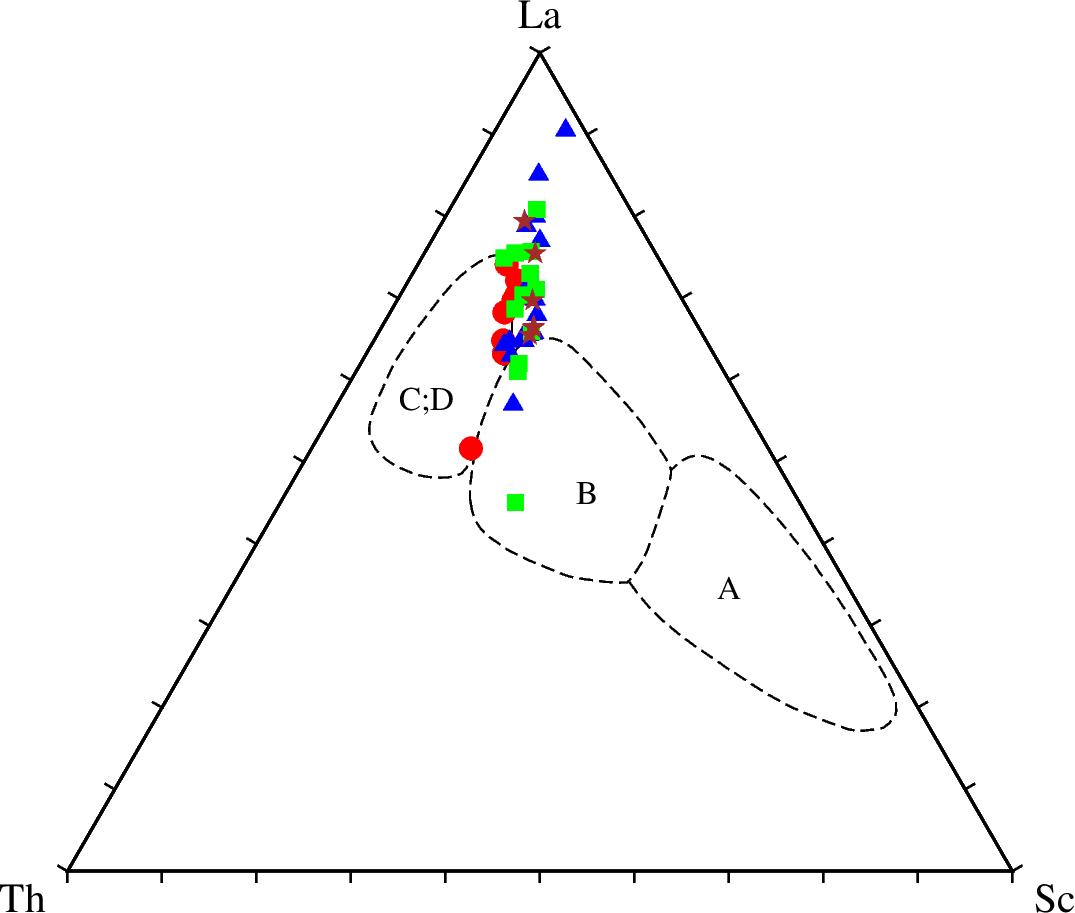
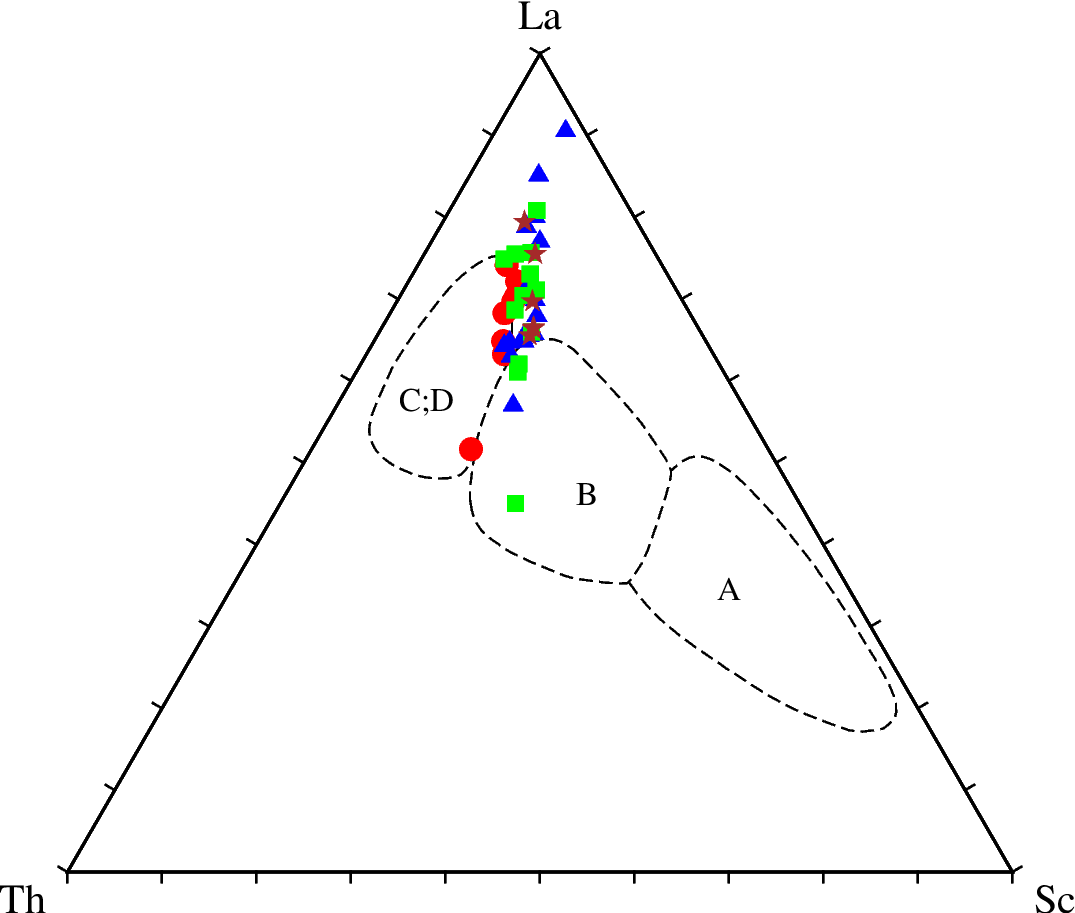
fixes

diff --git a/content/example/ex022/index.md b/content/example/ex022/index.md
@@ -1,6 +1,6 @@
 ---
 title: 地球化学三角图解的绘制
-date: 2018-01-22
+date: 2019-01-22
 authors:
     - 李黎明
 images:
@@ -8,7 +8,7 @@ images:
     - ternary2.png
     - Engauge.jpg
 commands:
-    - ternary
+    - psternary
 ---
 
 {{% notice info %}}
@@ -17,26 +17,24 @@ commands:
 {{% /notice %}}
 
 三角图解有很多种，这里仅讨论一下地球化学上常用的地球化学图解用 GMT 的实现方法。
-该三角图解引自Mukul R. Bhatia & Keith A.W. Crook，1986，Contrib Mineral Petrol  92:181-193。原图如下：
+该三角图解引自Mukul R. Bhatia & Keith A.W. Crook, 1986, Contrib Mineral Petrol。原图如下：
 
-{{< figure src="Bhatia-Crool1986.png" title="Th,Sc,La三角图解" width="1000px">}}
-
+{{< figure src="Bhatia-Crool1988.png" title="Th,Sc,La三角图解" width="400px" >}}
 
 - 三个端元值分别为 Th、Sc 和 La含量经归一化后的值，即将三元素含量换算成各自占三者的百分含量。
-
-  以元素 Th 为例，Th'=100*Th/(Th+Sc+La)，Sc 及 La 计算方法相同。
+  以元素 Th 为例，Th'=100\*Th/(Th+Sc+La)，Sc 及 La 计算方法相同。
 
 - A，B，C，D 分别代表不同的大地构造环境，A-大洋岛弧，B-大陆岛弧，C-活动大陆边缘，D-被动大陆边缘
 
 # 实现三角框架和数据投点
 
-ternary 模块可以实现三角框架和数据投点，代码如下：
+psternary 模块可以实现三角框架和数据投点，代码如下：
 
 {{< include-code "draw-ternary1.sh" bash >}}
 
 结果如图，但是还缺少原图相应的判定曲线。
 
-{{< figure src="ternary1.png" title="Th,Sc,La三角图解" width="1000px">}}
+{{< figure src="ternary1.png" title="Th,Sc,La三角图解" width="400px">}}
 
 # 获得判定曲线坐标数据
 
@@ -46,7 +44,7 @@ $$h=\frac{1}{2}*\sqrt{3}*a=\frac{1}{2}*\sqrt{3}*100=50\sqrt{3}$$
 
 如下图；然后利用 Engauge Digitizer 软件自动获得判定曲线的坐标数据。
 
-{{< figure src="Engauge.jpg" title="判定曲线的坐标数据" width="1000px">}}
+{{< figure src="Engauge.jpg" title="判定曲线的坐标数据" width="400px">}}
 
 # 在原绘图脚本上叠加判定曲线
 
@@ -57,7 +55,8 @@ R1=0/100/0/100/0/100
 J1=X8c
 ````
 
-而在用psxy绘制判定曲线时，要在三角图解的基础上再定义一个坐标系，其 x 值要与 R1 和 J1 的 x 值相同，y 值仍按上述公式换算。以保证两个不同的坐标系在纸面坐标上是重合的。
+而在用psxy绘制判定曲线时，要在三角图解的基础上再定义一个坐标系，其 x 值要与 R1
+和 J1 的 x 值相同，y 值仍按上述公式换算。以保证两个不同的坐标系在纸面坐标上是重合的。
 
 $$
 R2=0/100/0/50\sqrt{3}\\
@@ -70,4 +69,4 @@ $$
 
 绘图效果如下:
 
-{{< figure src="ternary2.png" title="Th,Sc,La三角图解" width="1000px">}}
+{{< figure src="ternary2.png" title="Th,Sc,La三角图解" width="400px">}}
